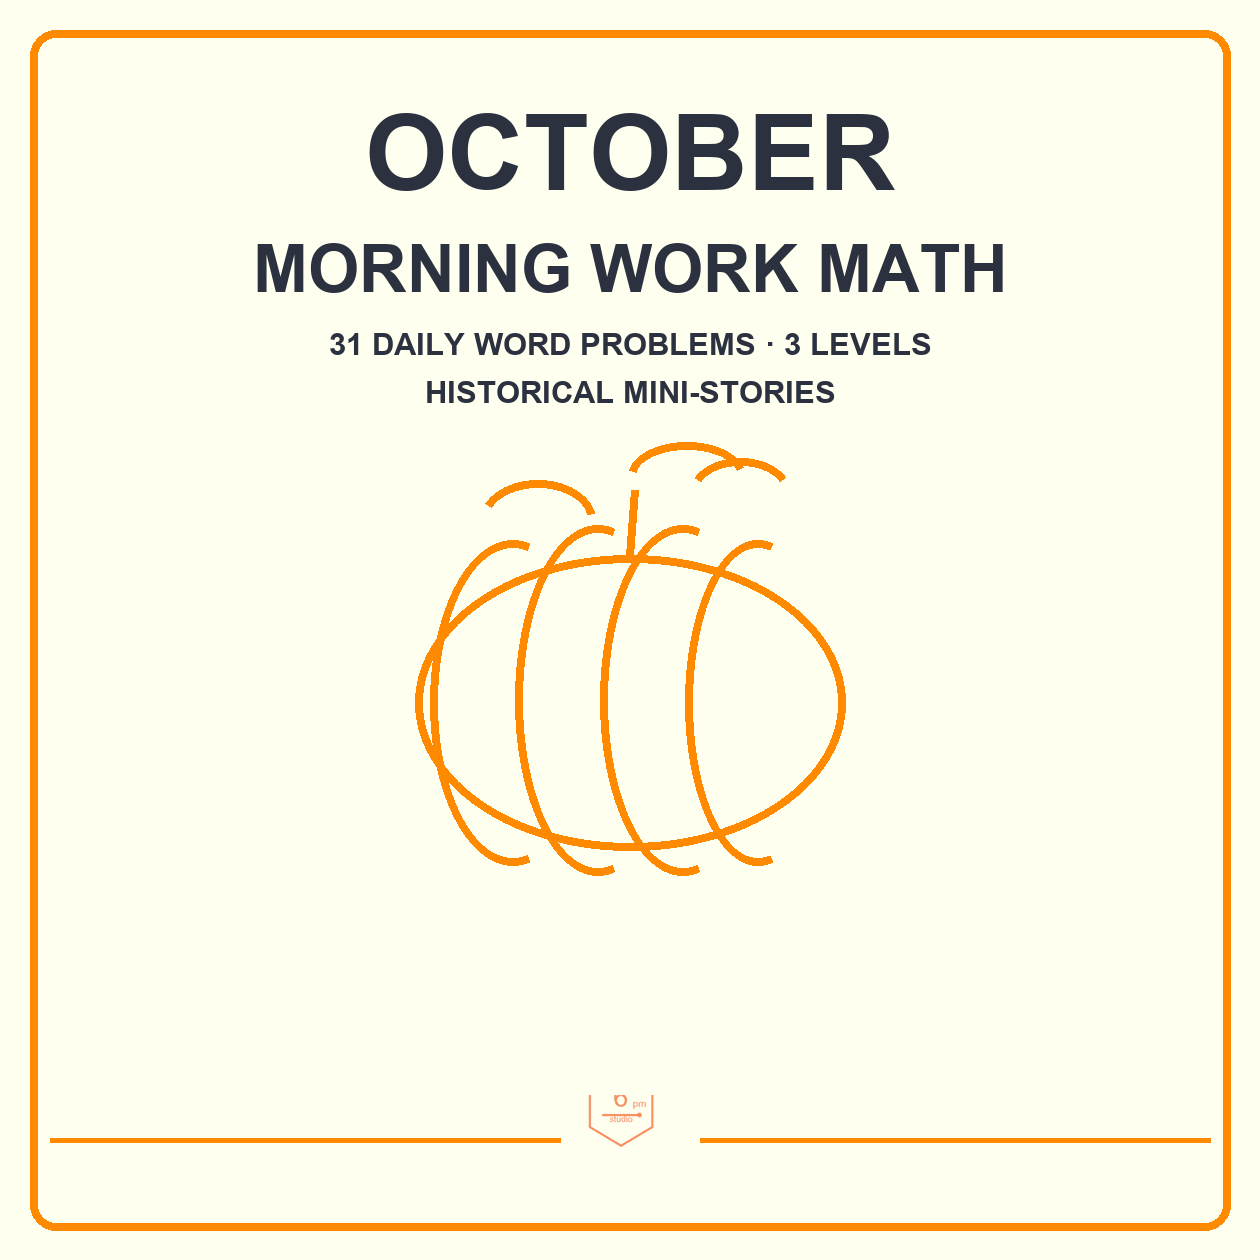
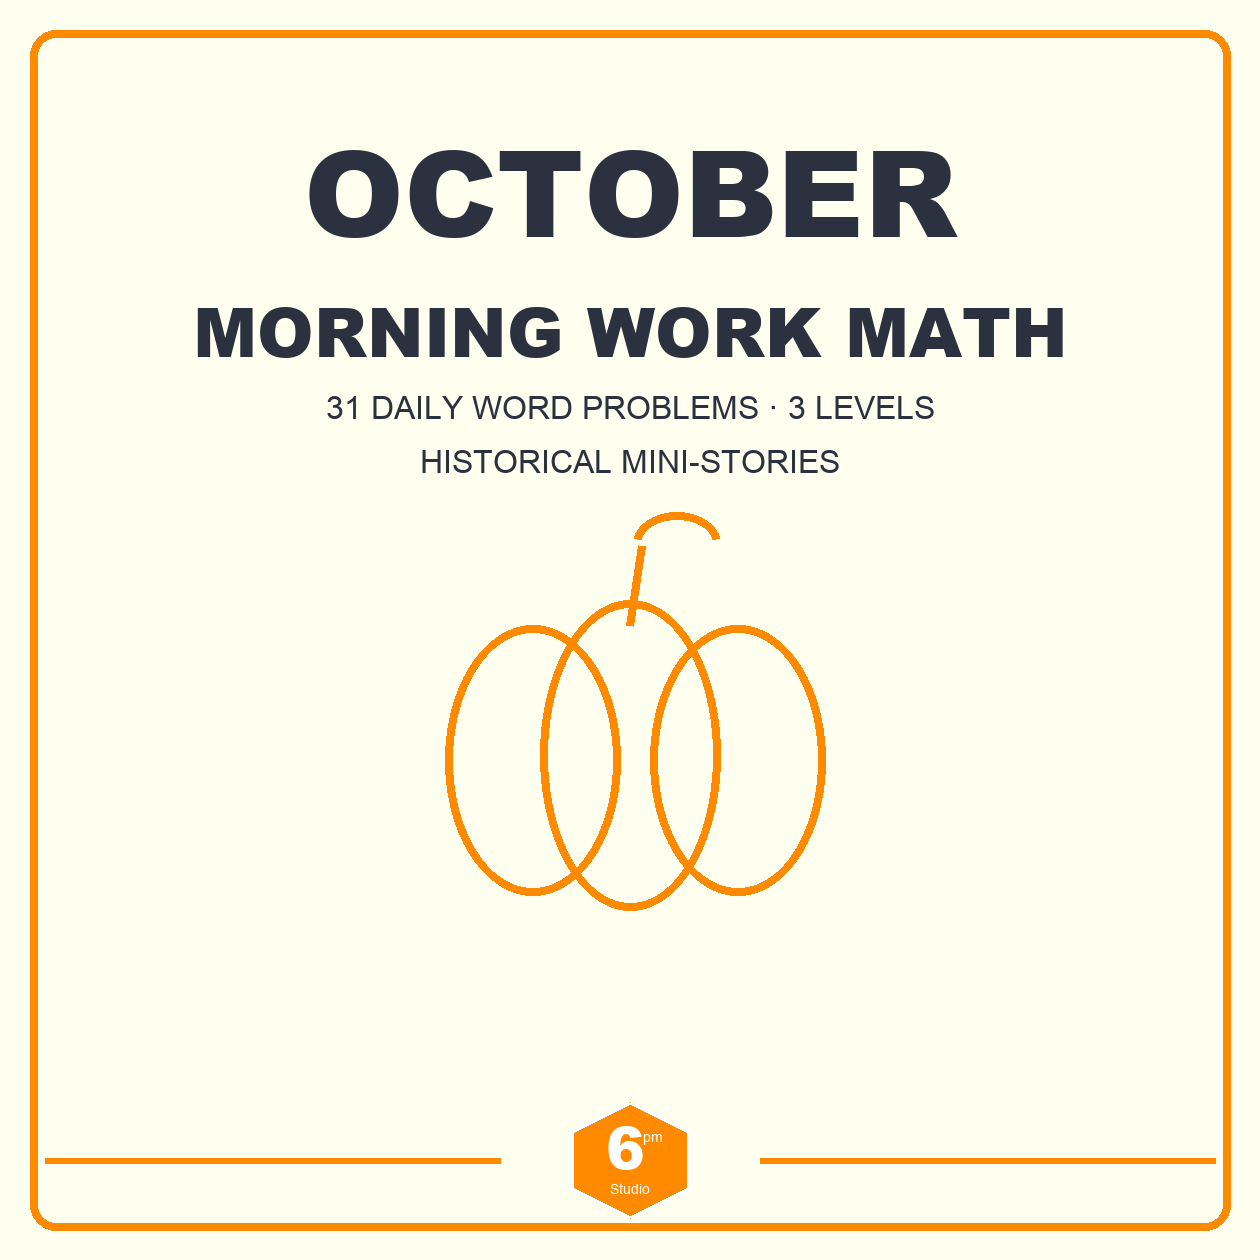
Regenerate thumbnails from exact reference layouts

Changed region(s): [[0.1548, 0.0929, 0.8667, 0.7429], [0.031, 0.8667, 0.9595, 0.9595]]

diff --git a/scripts/generate_monthly_thumbnails.py b/scripts/generate_monthly_thumbnails.py
@@ -18,7 +18,7 @@ SIZE = 1260
 
 def font(size: int, bold: bool = True):
     candidates = [
-        "/System/Library/Fonts/Supplemental/Arial Bold.ttf" if bold else "/System/Library/Fonts/Supplemental/Arial.ttf",
+        "/System/Library/Fonts/Supplemental/Arial Black.ttf" if bold else "/System/Library/Fonts/Supplemental/Arial.ttf",
         "/System/Library/Fonts/Arial.ttf",
     ]
     for candidate in candidates:
@@ -27,13 +27,13 @@ def font(size: int, bold: bool = True):
     return ImageFont.load_default()
 
 
-def fitted(text: str, width: int, size: int):
+def fitted(text: str, width: int, size: int, bold: bool = True):
     while size > 12:
-        f = font(size)
+        f = font(size, bold)
         if ImageDraw.Draw(Image.new("RGB", (1, 1))).textbbox((0, 0), text, font=f)[2] <= width:
             return f
         size -= 1
-    return font(12)
+    return font(12, bold)
 
 
 def base_canvas():
@@ -43,49 +43,63 @@ def base_canvas():
 
 
 def accented_title(draw, text, y, size, max_width=1080):
-    """Production-style title with three short orange rays on each side."""
+    """Production-style title with three hand-drawn rays on each side."""
     centered(draw, text, y, size, max_width)
     f = fitted(text, max_width, size)
     text_width = draw.textbbox((0, 0), text, font=f)[2]
-    gap = 28
-    ray = 42
+    gap = 34
+    ray = 50
     left = (SIZE - text_width) // 2 - gap
     right = (SIZE + text_width) // 2 + gap
     mid = y + size // 2
-    for offset, rise in ((0, 0), (14, -16), (14, 16)):
-        draw.line((left - ray - offset, mid + rise, left - offset, mid + rise), fill=ORANGE, width=7)
-        draw.line((right + offset, mid + rise, right + ray + offset, mid + rise), fill=ORANGE, width=7)
+    draw.line((left - ray, mid - 26, left - 10, mid - 4), fill=ORANGE, width=8)
+    draw.line((left - ray - 8, mid + 2, left - 10, mid + 2), fill=ORANGE, width=8)
+    draw.line((left - ray, mid + 30, left - 10, mid + 8), fill=ORANGE, width=8)
+    draw.line((right + 10, mid - 4, right + ray, mid - 26), fill=ORANGE, width=8)
+    draw.line((right + 10, mid + 2, right + ray + 8, mid + 2), fill=ORANGE, width=8)
+    draw.line((right + 10, mid + 8, right + ray, mid + 30), fill=ORANGE, width=8)
 
 
 def side_lines(draw, y, size, gap=44, ray=58):
     """One short orange horizontal line on either side of a two-line title."""
     mid = y + size // 2
-    draw.line((190, mid, 190 + ray, mid), fill=ORANGE, width=7)
-    draw.line((SIZE - 190 - ray, mid, SIZE - 190, mid), fill=ORANGE, width=7)
+    draw.line((50, mid, 165, mid), fill=ORANGE, width=7)
+    draw.line((SIZE - 165, mid, SIZE - 50, mid), fill=ORANGE, width=7)
 
 
 def footer(canvas):
     draw = ImageDraw.Draw(canvas)
-    draw.line((50, 1140, 560, 1140), fill=ORANGE, width=5)
-    draw.line((700, 1140, 1210, 1140), fill=ORANGE, width=5)
+    draw.line((45, 1160, 500, 1160), fill=ORANGE, width=6)
+    draw.line((760, 1160, 1215, 1160), fill=ORANGE, width=6)
+    studio_logo(draw, 630, 1160, 116)
 
 
 def pumpkin_doodle(canvas):
-    """Draw a stable, recognizable single-line pumpkin accent."""
+    """Draw the compact three-lobed pumpkin used by the reference cover."""
     draw = ImageDraw.Draw(canvas)
     stroke = 8
-    cx = 630
-    draw.ellipse((415, 555, 845, 850), outline=ORANGE, width=stroke)
-    for box in [(430, 540, 595, 865), (515, 525, 680, 875), (600, 525, 765, 875), (685, 540, 830, 865)]:
-        draw.arc(box, 78, 282, fill=ORANGE, width=stroke)
-    draw.line((cx, 555, cx + 5, 490), fill=ORANGE, width=stroke)
-    draw.arc((628, 442, 745, 510), 190, 345, fill=ORANGE, width=stroke)
-    draw.arc((690, 458, 790, 525), 205, 335, fill=ORANGE, width=stroke)
-    draw.arc((480, 480, 595, 560), 205, 350, fill=ORANGE, width=stroke)
+    draw.ellipse((445, 625, 620, 895), outline=ORANGE, width=stroke)
+    draw.ellipse((540, 600, 720, 910), outline=ORANGE, width=stroke)
+    draw.ellipse((650, 625, 825, 895), outline=ORANGE, width=stroke)
+    draw.line((630, 625, 642, 545), fill=ORANGE, width=stroke)
+    draw.arc((633, 512, 720, 575), 190, 350, fill=ORANGE, width=stroke)
 
 
-def centered(draw, text, y, size, max_width=1120, fill=NAVY):
-    draw.text((630, y), text, anchor="ma", fill=fill, font=fitted(text, max_width, size))
+def centered(draw, text, y, size, max_width=1120, fill=NAVY, bold=True):
+    draw.text((630, y), text, anchor="ma", fill=fill, font=fitted(text, max_width, size, bold))
+
+
+def studio_logo(draw, center_x, center_y, size):
+    half = size // 2
+    points = [(center_x, center_y - half), (center_x + half, center_y - half // 2),
+              (center_x + half, center_y + half // 2), (center_x, center_y + half),
+              (center_x - half, center_y + half // 2), (center_x - half, center_y - half // 2)]
+    draw.polygon(points, fill=ORANGE)
+    inner = max(2, size // 25)
+    draw.line(points + [points[0]], fill="white", width=inner)
+    draw.text((center_x - 4, center_y - size // 8), "6", anchor="mm", fill="white", font=font(size // 2, True))
+    draw.text((center_x + size // 5, center_y - size // 5), "pm", anchor="mm", fill="white", font=font(size // 8, False))
+    draw.text((center_x, center_y + size // 4), "Studio", anchor="mm", fill="white", font=font(size // 8, False))
 
 
 def pill(draw, box, text, size=34):
@@ -105,7 +119,7 @@ def card(canvas, page, box, label, label_style="pill"):
     sheet.paste(fitted_image, ((w - fitted_image.width) // 2, (h - fitted_image.height) // 2))
     canvas.paste(sheet, (x, y))
     draw = ImageDraw.Draw(canvas)
-    draw.rounded_rectangle((x, y, x + w, y + h), 12, outline=ORANGE, width=3)
+    draw.rounded_rectangle((x, y, x + w, y + h), 12, outline=ORANGE, width=5)
     if label_style == "pill":
         pill(draw, (x, y + h + 10, w, 54), label, 34)
     elif label_style == "navy":
@@ -119,29 +133,17 @@ def card(canvas, page, box, label, label_style="pill"):
 
 
 def logo(canvas, page):
-    source = Image.open(page).convert("RGBA")
-    crop = source.crop((source.width - 260, source.height - 260, source.width, source.height))
-    diff = ImageChops.difference(crop.convert("RGB"), Image.new("RGB", crop.size, "white"))
-    bbox = diff.getbbox()
-    if bbox:
-        crop = crop.crop(bbox)
-    pixels = crop.load()
-    for y in range(crop.height):
-        for x in range(crop.width):
-            r, g, b, a = pixels[x, y]
-            if r > 245 and g > 245 and b > 245:
-                pixels[x, y] = (r, g, b, 0)
-    crop.thumbnail((115, 115), Image.Resampling.LANCZOS)
-    canvas.alpha_composite(crop, ((SIZE - crop.width) // 2, 1095))
+    """Compatibility hook; the shared vector logo is drawn by footer()."""
+    return None
 
 
 def compose_cover(month, out, source_page):
     canvas = base_canvas()
     draw = ImageDraw.Draw(canvas)
-    centered(draw, month.upper(), 94, 106, 1050)
-    centered(draw, "MORNING WORK MATH", 232, 66, 1080)
-    centered(draw, "31 DAILY WORD PROBLEMS · 3 LEVELS", 326, 31, 1080)
-    centered(draw, "HISTORICAL MINI-STORIES", 374, 31, 1080)
+    centered(draw, month.upper(), 104, 120, 1080)
+    centered(draw, "MORNING WORK MATH", 282, 68, 1120)
+    centered(draw, "31 DAILY WORD PROBLEMS · 3 LEVELS", 390, 32, 1120, bold=False)
+    centered(draw, "HISTORICAL MINI-STORIES", 444, 32, 1120, bold=False)
     pumpkin_doodle(canvas)
     footer(canvas)
     if source_page:
@@ -152,11 +154,11 @@ def compose_cover(month, out, source_page):
 def compose_whats_included(pages, out):
     canvas = base_canvas()
     draw = ImageDraw.Draw(canvas)
-    accented_title(draw, "WHAT'S INCLUDED", 54, 72, 1000)
-    for x, key, label in [(45, "story", "STORY"), (435, "level1", "LEVEL 1"), (825, "level2", "LEVEL 2")]:
-        card(canvas, pages[key], (x, 210, 340, 430), label)
-    for x, key, label in [(240, "level3", "LEVEL 3"), (680, "answer_key", "ANSWER KEY")]:
-        card(canvas, pages[key], (x, 730, 340, 330), label)
+    accented_title(draw, "WHAT'S INCLUDED", 34, 70, 1120)
+    for x, key, label in [(30, "story", "STORY"), (440, "level1", "LEVEL 1"), (850, "level2", "LEVEL 2")]:
+        card(canvas, pages[key], (x, 140, 380, 440), label)
+    for x, key, label in [(195, "level3", "LEVEL 3"), (645, "answer_key", "ANSWER KEY")]:
+        card(canvas, pages[key], (x, 650, 420, 360), label)
     footer(canvas)
     logo(canvas, pages["story"])
     canvas.convert("RGB").save(out, "PNG", optimize=True)
@@ -165,13 +167,13 @@ def compose_whats_included(pages, out):
 def compose_different_math(pages, out):
     canvas = base_canvas()
     draw = ImageDraw.Draw(canvas)
-    centered(draw, "ONE STORY", 52, 88, 1080)
-    centered(draw, "DIFFERENT MATH", 148, 70, 1080)
-    side_lines(draw, 148, 70)
+    centered(draw, "ONE STORY", 60, 102, 1120)
+    centered(draw, "DIFFERENT MATH", 188, 82, 1120)
+    side_lines(draw, 220, 82)
     for box, key, label in [
-        ((55, 290, 350, 590), "level1", "LEVEL 1"),
-        ((455, 290, 350, 590), "level2", "LEVEL 2"),
-        ((855, 290, 350, 590), "level3", "LEVEL 3"),
+        ((48, 430, 374, 500), "level1", "LEVEL 1"),
+        ((443, 430, 374, 500), "level2", "LEVEL 2"),
+        ((838, 430, 374, 500), "level3", "LEVEL 3"),
     ]:
         card(canvas, pages[key], box, label, label_style="navy")
     footer(canvas)
@@ -182,18 +184,18 @@ def compose_different_math(pages, out):
 def compose_daily_practice(pages, out):
     canvas = base_canvas()
     draw = ImageDraw.Draw(canvas)
-    centered(draw, "READY FOR", 52, 88, 1080)
-    accented_title(draw, "DAILY PRACTICE", 148, 70, 1080)
-    card(canvas, pages["worksheet"], (320, 300, 620, 610), "", label_style="none")
+    centered(draw, "READY FOR", 46, 102, 1120)
+    accented_title(draw, "DAILY PRACTICE", 178, 88, 1120)
+    card(canvas, pages["worksheet"], (325, 320, 610, 700), "", label_style="none")
     items = ["MORNING WORK", "BELL RINGERS", "HOMESCHOOL"]
-    widths = [draw.textbbox((0, 0), item, font=font(24))[2] for item in items]
+    widths = [draw.textbbox((0, 0), item, font=font(30))[2] for item in items]
     total = sum(widths) + 2 * 62
     x = (SIZE - total) // 2
     for index, item in enumerate(items):
-        draw.text((x, 990), item, anchor="la", fill=NAVY, font=font(24))
+        draw.text((x, 1050), item, anchor="la", fill=NAVY, font=font(30))
         x += widths[index]
         if index < len(items) - 1:
-            draw.line((x + 31, 978, x + 31, 1010), fill=ORANGE, width=5)
+            draw.line((x + 31, 1040, x + 31, 1080), fill=ORANGE, width=6)
             x += 62
     footer(canvas)
     logo(canvas, pages["worksheet"])
